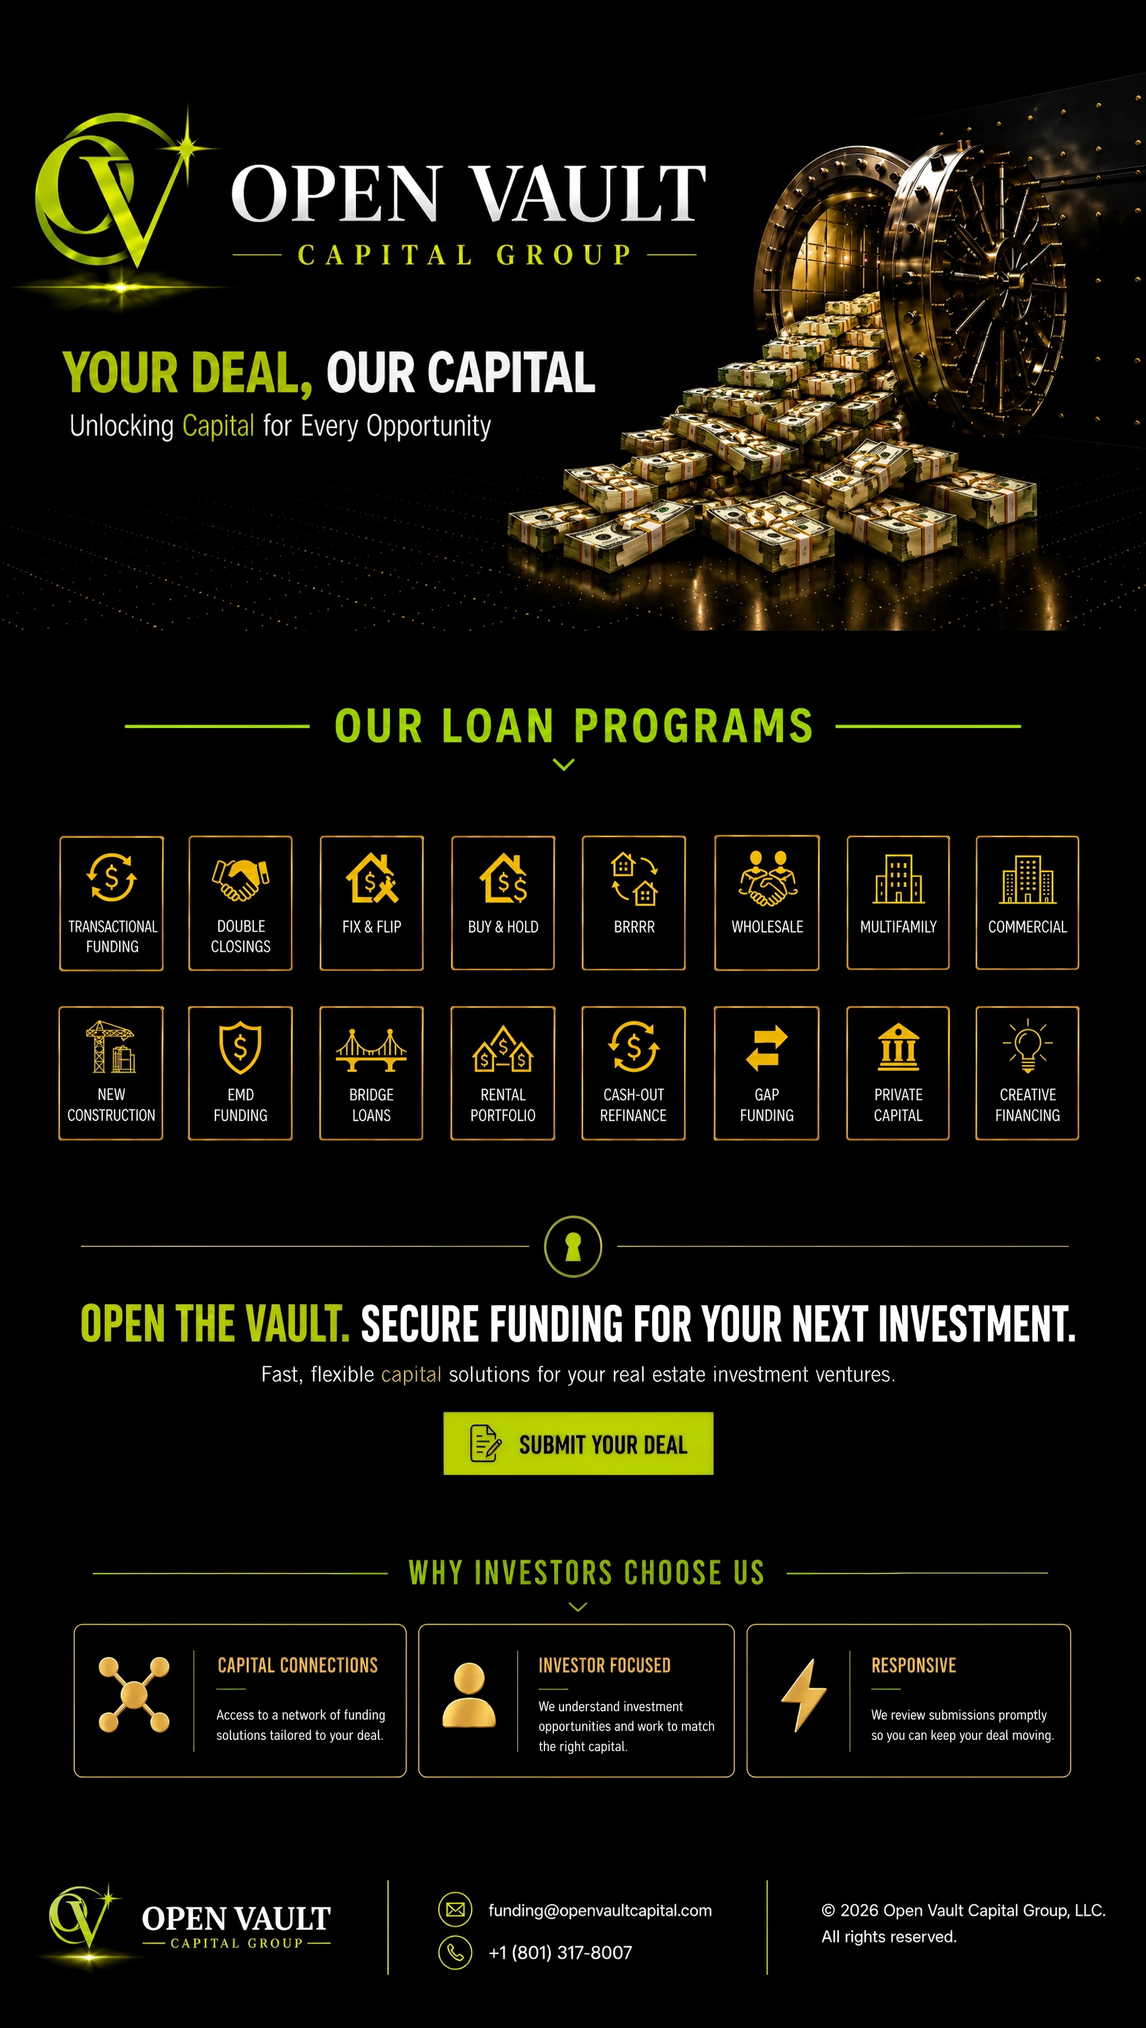
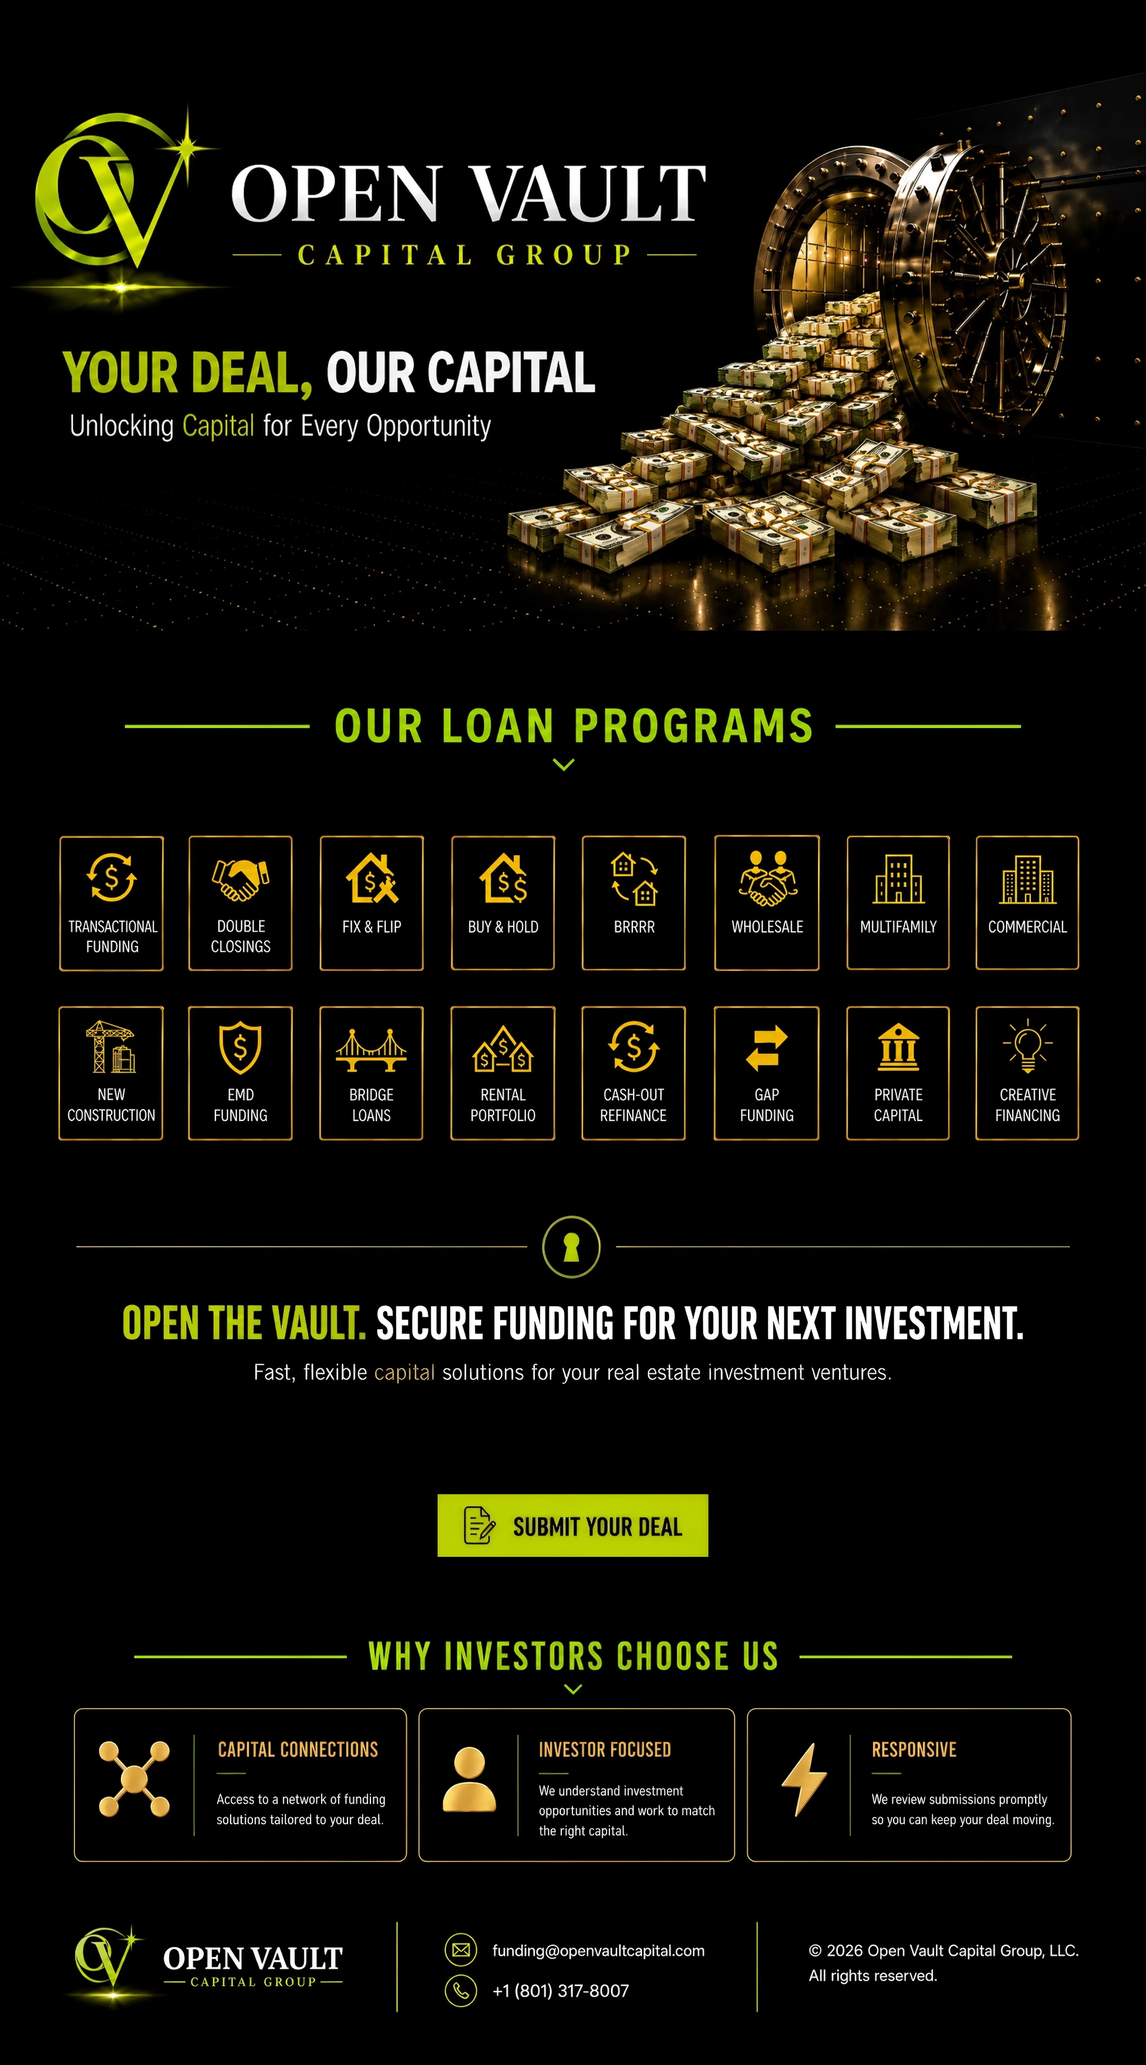
Add files via upload
Final landing page visual refinements

diff --git a/index.html b/index.html
@@ -173,79 +173,83 @@
 
             <div class="hotspots hotspots--wide">
 
+            <span class="veil veil--programs" style="left:0.000%; top:38.824%; width:100.000%; height:18.335%; opacity:0.280;"
+                aria-hidden="true"></span>
+            <span class="veil veil--why" style="left:0.000%; top:82.350%; width:100.000%; height:9.242%; opacity:0.250;"
+                aria-hidden="true"></span>
             <!-- --- 16 loan-program tiles ---------------------------------
                  Row 1 -->
             <button type="button" class="hotspot hotspot--program" data-program="transactional-funding"
                 aria-label="View the Transactional Funding program summary" aria-haspopup="dialog"
                 aria-controls="program-modal"
-                style="left:5.193%; top:41.231%; width:8.961%; height:6.575%;">Transactional Funding</button>
+                style="left:5.193%; top:40.496%; width:8.961%; height:6.458%;">Transactional Funding</button>
             <button type="button" class="hotspot hotspot--program" data-program="double-closings"
                 aria-label="View the Double Closings program summary" aria-haspopup="dialog"
                 aria-controls="program-modal"
-                style="left:16.476%; top:41.231%; width:8.961%; height:6.575%;">Double Closings</button>
+                style="left:16.476%; top:40.496%; width:8.961%; height:6.458%;">Double Closings</button>
             <button type="button" class="hotspot hotspot--program" data-program="fix-flip"
                 aria-label="View the Fix and Flip program summary" aria-haspopup="dialog"
                 aria-controls="program-modal"
-                style="left:27.935%; top:41.231%; width:8.903%; height:6.575%;">Fix &amp; Flip</button>
+                style="left:27.935%; top:40.496%; width:8.903%; height:6.458%;">Fix &amp; Flip</button>
             <button type="button" class="hotspot hotspot--program" data-program="buy-hold"
                 aria-label="View the Buy and Hold program summary" aria-haspopup="dialog"
                 aria-controls="program-modal"
-                style="left:39.393%; top:41.231%; width:8.961%; height:6.575%;">Buy &amp; Hold</button>
+                style="left:39.393%; top:40.496%; width:8.961%; height:6.458%;">Buy &amp; Hold</button>
             <button type="button" class="hotspot hotspot--program" data-program="brrrr"
                 aria-label="View the BRRRR program summary" aria-haspopup="dialog" aria-controls="program-modal"
-                style="left:50.823%; top:41.231%; width:8.932%; height:6.575%;">BRRRR</button>
+                style="left:50.823%; top:40.496%; width:8.932%; height:6.458%;">BRRRR</button>
             <button type="button" class="hotspot hotspot--program" data-program="wholesale"
                 aria-label="View the Wholesale program summary" aria-haspopup="dialog" aria-controls="program-modal"
-                style="left:62.370%; top:41.231%; width:9.020%; height:6.575%;">Wholesale</button>
+                style="left:62.370%; top:40.496%; width:9.020%; height:6.458%;">Wholesale</button>
             <button type="button" class="hotspot hotspot--program" data-program="multifamily"
                 aria-label="View the Multifamily program summary" aria-haspopup="dialog" aria-controls="program-modal"
-                style="left:73.916%; top:41.231%; width:8.873%; height:6.575%;">Multifamily</button>
+                style="left:73.916%; top:40.496%; width:8.873%; height:6.458%;">Multifamily</button>
             <button type="button" class="hotspot hotspot--program" data-program="commercial"
                 aria-label="View the Commercial program summary" aria-haspopup="dialog" aria-controls="program-modal"
-                style="left:85.199%; top:41.231%; width:8.873%; height:6.575%;">Commercial</button>
+                style="left:85.199%; top:40.496%; width:8.873%; height:6.458%;">Commercial</button>
 
             <!-- Row 2 -->
             <button type="button" class="hotspot hotspot--program" data-program="new-construction"
                 aria-label="View the New Construction program summary" aria-haspopup="dialog"
                 aria-controls="program-modal"
-                style="left:5.193%; top:49.682%; width:8.961%; height:6.492%;">New Construction</button>
+                style="left:5.193%; top:48.797%; width:8.961%; height:6.377%;">New Construction</button>
             <button type="button" class="hotspot hotspot--program" data-program="emd-funding"
                 aria-label="View the EMD Funding program summary" aria-haspopup="dialog" aria-controls="program-modal"
-                style="left:16.476%; top:49.682%; width:8.961%; height:6.492%;">EMD Funding</button>
+                style="left:16.476%; top:48.797%; width:8.961%; height:6.377%;">EMD Funding</button>
             <button type="button" class="hotspot hotspot--program" data-program="bridge-loans"
                 aria-label="View the Bridge Loans program summary" aria-haspopup="dialog" aria-controls="program-modal"
-                style="left:27.935%; top:49.682%; width:8.903%; height:6.492%;">Bridge Loans</button>
+                style="left:27.935%; top:48.797%; width:8.903%; height:6.377%;">Bridge Loans</button>
             <button type="button" class="hotspot hotspot--program" data-program="rental-portfolio"
                 aria-label="View the Rental Portfolio program summary" aria-haspopup="dialog"
                 aria-controls="program-modal"
-                style="left:39.393%; top:49.682%; width:8.961%; height:6.492%;">Rental Portfolio</button>
+                style="left:39.393%; top:48.797%; width:8.961%; height:6.377%;">Rental Portfolio</button>
             <button type="button" class="hotspot hotspot--program" data-program="cash-out-refinance"
                 aria-label="View the Cash-Out Refinance program summary" aria-haspopup="dialog"
                 aria-controls="program-modal"
-                style="left:50.823%; top:49.682%; width:8.932%; height:6.492%;">Cash-Out Refinance</button>
+                style="left:50.823%; top:48.797%; width:8.932%; height:6.377%;">Cash-Out Refinance</button>
             <button type="button" class="hotspot hotspot--program" data-program="gap-funding"
                 aria-label="View the Gap Funding program summary" aria-haspopup="dialog" aria-controls="program-modal"
-                style="left:62.370%; top:49.682%; width:9.020%; height:6.492%;">Gap Funding</button>
+                style="left:62.370%; top:48.797%; width:9.020%; height:6.377%;">Gap Funding</button>
             <button type="button" class="hotspot hotspot--program" data-program="private-capital"
                 aria-label="View the Private Capital program summary" aria-haspopup="dialog"
                 aria-controls="program-modal"
-                style="left:73.916%; top:49.682%; width:8.873%; height:6.492%;">Private Capital</button>
+                style="left:73.916%; top:48.797%; width:8.873%; height:6.377%;">Private Capital</button>
             <button type="button" class="hotspot hotspot--program" data-program="creative-financing"
                 aria-label="View the Creative Financing program summary" aria-haspopup="dialog"
                 aria-controls="program-modal"
-                style="left:85.199%; top:49.682%; width:8.873%; height:6.492%;">Creative Financing</button>
+                style="left:85.199%; top:48.797%; width:8.873%; height:6.377%;">Creative Financing</button>
 
             <!-- --- SUBMIT YOUR DEAL ------------------------------------- -->
             <button type="button" class="hotspot hotspot--cta" data-deal-open aria-label="Submit your deal"
                 aria-haspopup="dialog" aria-controls="deal-modal"
-                style="left:38.743%; top:69.655%; width:23.478%; height:3.048%;">Submit Your Deal</button>
+                style="left:38.174%; top:72.357%; width:23.651%; height:3.026%;">Submit Your Deal</button>
 
             <!-- --- Footer contact lines --------------------------------- -->
             <a class="hotspot hotspot--contact" href="mailto:funding@openvaultcapital.com"
                 aria-label="Email funding@openvaultcapital.com"
-                style="left:37.941%; top:93.122%; width:24.401%; height:2.052%;">funding@openvaultcapital.com</a>
+                style="left:38.760%; top:93.594%; width:22.696%; height:1.646%;">funding@openvaultcapital.com</a>
             <a class="hotspot hotspot--contact" href="tel:+18013178007" aria-label="Call +1 801 317 8007"
-                style="left:37.941%; top:95.303%; width:24.401%; height:1.924%;">+1 (801) 317-8007</a>
+                style="left:38.760%; top:95.599%; width:22.696%; height:1.586%;">+1 (801) 317-8007</a>
 
             </div><!-- /.hotspots--wide -->
 
@@ -256,65 +260,69 @@
                  ======================================================== -->
             <div class="hotspots hotspots--narrow">
 
+                <span class="veil veil--programs" style="left:0.000%; top:9.268%; width:100.000%; height:50.321%; opacity:0.280;"
+                    aria-hidden="true"></span>
+                <span class="veil veil--why" style="left:0.000%; top:74.516%; width:100.000%; height:17.614%; opacity:0.250;"
+                    aria-hidden="true"></span>
                 <button type="button" class="hotspot hotspot--program" data-program="transactional-funding" aria-haspopup="dialog" aria-controls="program-modal"
                     aria-label="View the Transactional Funding program summary"
-                    style="left:11.574%; top:9.755%; width:34.259%; height:5.533%;">Transactional Funding</button>
+                    style="left:11.574%; top:9.703%; width:34.259%; height:5.503%;">Transactional Funding</button>
                 <button type="button" class="hotspot hotspot--program" data-program="double-closings" aria-haspopup="dialog" aria-controls="program-modal"
                     aria-label="View the Double Closings program summary"
-                    style="left:54.167%; top:9.755%; width:34.259%; height:5.533%;">Double Closings</button>
+                    style="left:54.167%; top:9.703%; width:34.259%; height:5.503%;">Double Closings</button>
                 <button type="button" class="hotspot hotspot--program" data-program="fix-flip" aria-haspopup="dialog" aria-controls="program-modal"
                     aria-label="View the Fix and Flip program summary"
-                    style="left:11.574%; top:16.093%; width:34.259%; height:5.533%;">Fix &amp; Flip</button>
+                    style="left:11.574%; top:16.009%; width:34.259%; height:5.503%;">Fix &amp; Flip</button>
                 <button type="button" class="hotspot hotspot--program" data-program="buy-hold" aria-haspopup="dialog" aria-controls="program-modal"
                     aria-label="View the Buy and Hold program summary"
-                    style="left:54.167%; top:16.093%; width:34.259%; height:5.533%;">Buy &amp; Hold</button>
+                    style="left:54.167%; top:16.009%; width:34.259%; height:5.503%;">Buy &amp; Hold</button>
                 <button type="button" class="hotspot hotspot--program" data-program="brrrr" aria-haspopup="dialog" aria-controls="program-modal"
                     aria-label="View the BRRRR program summary"
-                    style="left:11.574%; top:22.432%; width:34.259%; height:5.533%;">BRRRR</button>
+                    style="left:11.574%; top:22.314%; width:34.259%; height:5.503%;">BRRRR</button>
                 <button type="button" class="hotspot hotspot--program" data-program="wholesale" aria-haspopup="dialog" aria-controls="program-modal"
                     aria-label="View the Wholesale program summary"
-                    style="left:54.167%; top:22.432%; width:34.259%; height:5.533%;">Wholesale</button>
+                    style="left:54.167%; top:22.314%; width:34.259%; height:5.503%;">Wholesale</button>
                 <button type="button" class="hotspot hotspot--program" data-program="multifamily" aria-haspopup="dialog" aria-controls="program-modal"
                     aria-label="View the Multifamily program summary"
-                    style="left:11.574%; top:28.771%; width:34.259%; height:5.533%;">Multifamily</button>
+                    style="left:11.574%; top:28.619%; width:34.259%; height:5.503%;">Multifamily</button>
                 <button type="button" class="hotspot hotspot--program" data-program="commercial" aria-haspopup="dialog" aria-controls="program-modal"
                     aria-label="View the Commercial program summary"
-                    style="left:54.167%; top:28.771%; width:34.259%; height:5.533%;">Commercial</button>
+                    style="left:54.167%; top:28.619%; width:34.259%; height:5.503%;">Commercial</button>
                 <button type="button" class="hotspot hotspot--program" data-program="new-construction" aria-haspopup="dialog" aria-controls="program-modal"
                     aria-label="View the New Construction program summary"
-                    style="left:11.574%; top:34.830%; width:34.259%; height:5.463%;">New Construction</button>
+                    style="left:11.574%; top:34.647%; width:34.259%; height:5.434%;">New Construction</button>
                 <button type="button" class="hotspot hotspot--program" data-program="emd-funding" aria-haspopup="dialog" aria-controls="program-modal"
                     aria-label="View the EMD Funding program summary"
-                    style="left:54.167%; top:34.830%; width:34.259%; height:5.463%;">EMD Funding</button>
+                    style="left:54.167%; top:34.647%; width:34.259%; height:5.434%;">EMD Funding</button>
                 <button type="button" class="hotspot hotspot--program" data-program="bridge-loans" aria-haspopup="dialog" aria-controls="program-modal"
                     aria-label="View the Bridge Loans program summary"
-                    style="left:11.574%; top:41.099%; width:34.259%; height:5.463%;">Bridge Loans</button>
+                    style="left:11.574%; top:40.883%; width:34.259%; height:5.434%;">Bridge Loans</button>
                 <button type="button" class="hotspot hotspot--program" data-program="rental-portfolio" aria-haspopup="dialog" aria-controls="program-modal"
                     aria-label="View the Rental Portfolio program summary"
-                    style="left:54.167%; top:41.099%; width:34.259%; height:5.463%;">Rental Portfolio</button>
+                    style="left:54.167%; top:40.883%; width:34.259%; height:5.434%;">Rental Portfolio</button>
                 <button type="button" class="hotspot hotspot--program" data-program="cash-out-refinance" aria-haspopup="dialog" aria-controls="program-modal"
                     aria-label="View the Cash-Out Refinance program summary"
-                    style="left:11.574%; top:47.368%; width:34.259%; height:5.463%;">Cash-Out Refinance</button>
+                    style="left:11.574%; top:47.118%; width:34.259%; height:5.434%;">Cash-Out Refinance</button>
                 <button type="button" class="hotspot hotspot--program" data-program="gap-funding" aria-haspopup="dialog" aria-controls="program-modal"
                     aria-label="View the Gap Funding program summary"
-                    style="left:54.167%; top:47.368%; width:34.259%; height:5.463%;">Gap Funding</button>
+                    style="left:54.167%; top:47.118%; width:34.259%; height:5.434%;">Gap Funding</button>
                 <button type="button" class="hotspot hotspot--program" data-program="private-capital" aria-haspopup="dialog" aria-controls="program-modal"
                     aria-label="View the Private Capital program summary"
-                    style="left:11.574%; top:53.637%; width:34.259%; height:5.463%;">Private Capital</button>
+                    style="left:11.574%; top:53.354%; width:34.259%; height:5.434%;">Private Capital</button>
                 <button type="button" class="hotspot hotspot--program" data-program="creative-financing" aria-haspopup="dialog" aria-controls="program-modal"
                     aria-label="View the Creative Financing program summary"
-                    style="left:54.167%; top:53.637%; width:34.259%; height:5.463%;">Creative Financing</button>
+                    style="left:54.167%; top:53.354%; width:34.259%; height:5.434%;">Creative Financing</button>
 
                 <button type="button" class="hotspot hotspot--cta" data-deal-open aria-haspopup="dialog" aria-controls="deal-modal"
                     aria-label="Submit your deal"
-                    style="left:21.296%; top:68.536%; width:57.407%; height:1.647%;">Submit Your Deal</button>
+                    style="left:21.296%; top:70.191%; width:57.407%; height:1.638%;">Submit Your Deal</button>
 
                 <a class="hotspot hotspot--contact" href="mailto:funding@openvaultcapital.com"
                     aria-label="Email funding@openvaultcapital.com"
-                    style="left:12.963%; top:94.380%; width:74.074%; height:1.209%;">funding@openvaultcapital.com</a>
+                    style="left:14.815%; top:94.776%; width:70.370%; height:1.134%;">funding@openvaultcapital.com</a>
                 <a class="hotspot hotspot--contact" href="tel:+18013178007"
                     aria-label="Call +1 801 317 8007"
-                    style="left:12.963%; top:95.889%; width:74.074%; height:1.163%;">+1 (801) 317-8007</a>
+                    style="left:14.815%; top:96.185%; width:70.370%; height:1.100%;">+1 (801) 317-8007</a>
 
             </div><!-- /.hotspots--narrow -->
         </section>

diff --git a/css/style.css b/css/style.css
@@ -123,14 +123,14 @@ a {
     /* Reserve the exact box before the artwork arrives, so nothing shifts and
        the hotspots are correctly placed from the first paint. The portrait
        master has its own ratio; it is restated at the breakpoint below. */
-    aspect-ratio: 2048 / 3624;
+    aspect-ratio: 2048 / 3690;
 }
 
 /* Scroll target for the skip link, parked on the loan-programs band. */
 .master-anchor {
     position: absolute;
     left: 0;
-    top: 39.5%;
+    top: 36.8%;
     width: 1px;
     height: 1px;
     overflow: hidden;
@@ -146,6 +146,36 @@ a {
 
 .hotspots--narrow {
     display: none;
+}
+
+/* --------------------------------------------------------------------------
+   3a. RECESSION PANELS
+   The two card fields are pushed back so they read as contained and secondary
+   to the hero.
+
+   A panel is plain black at low opacity. Because it composites over artwork
+   whose surround is pure #000, the result is exactly filter: brightness(x) —
+   black stays black, so only the luminous parts (icons, rules, type) dim, and
+   the panel's own left and right edges are invisible. Its top and bottom edges
+   are parked in the middle of the black runs that bracket each field, so there
+   is no seam there either. Nothing is baked into the artwork; the degree of
+   recession is the opacity below and can be retuned without regenerating the
+   master image.
+   -------------------------------------------------------------------------- */
+.veil {
+    position: absolute;
+    background: var(--ov-black);
+    pointer-events: none;
+    transition: opacity 0.55s var(--ease);
+}
+
+/* Exploring a field brings it part of the way forward. The tiles are
+   clickable, so intent deserves a response — but the recession is only
+   softened, never lifted, or the section would jump back to competing with
+   the hero on hover. */
+.hotspots:has(.hotspot--program:hover) .veil--programs,
+.hotspots:has(.hotspot--program:focus-visible) .veil--programs {
+    opacity: 0.1 !important;
 }
 
 /* --------------------------------------------------------------------------
@@ -348,7 +378,7 @@ body.program-modal-open {
 /* --- Phone: portrait master --------------------------------------------- */
 @media (max-width: 700px) {
     .master-landing-image {
-        aspect-ratio: 1080 / 8683;
+        aspect-ratio: 1080 / 8729;
     }
 
     .hotspots--wide {
@@ -360,7 +390,7 @@ body.program-modal-open {
     }
 
     .master-anchor {
-        top: 7.2%;
+        top: 7.3%;
     }
 }
 
